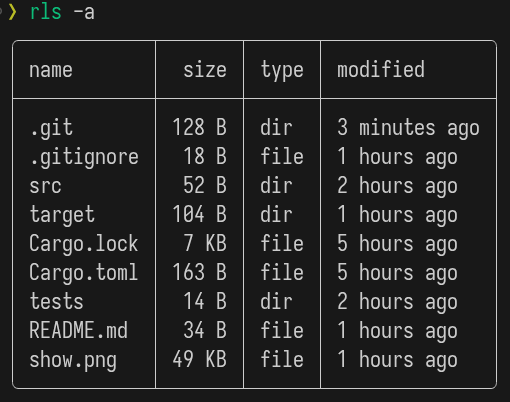
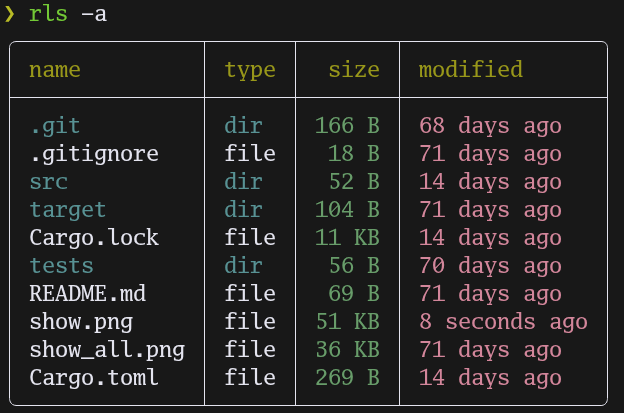
update show picture

Changed region(s): [[0.0, 0.0896, 0.9706, 0.9851], [0.0, 0.0, 0.2059, 0.0597]]

diff --git a/src/main.rs b/src/main.rs
@@ -3,7 +3,7 @@ use std::{env, fs};
 use anyhow::{Ok, Result, anyhow};
 use clap::Parser;
 use tabled::{Table, settings::{Alignment, Color, Style, object::{Columns, Rows}}};
-use rls::{cli, file::FileItem};
+use tls::{cli, file::FileItem};
 
 
 fn main() -> Result<()>{
@@ -11,7 +11,7 @@ fn main() -> Result<()>{
     let files = get_files(&args)?;
     let mut table = Table::new(files);
     table.with(Style::rounded());
-    table.modify(Columns::one(1), Alignment::right());
+    table.modify(Columns::one(2), Alignment::right());
     table.modify(Rows::first(), Color::rgb_fg(152,151,26));
 
     println!("{}", table);

diff --git a/README.md b/README.md
@@ -3,3 +3,5 @@
 ![效果截图](./show.png)  
 
 ![效果截图](./show_all.png)
+
+![效果截图](./show_dir_size.png)
